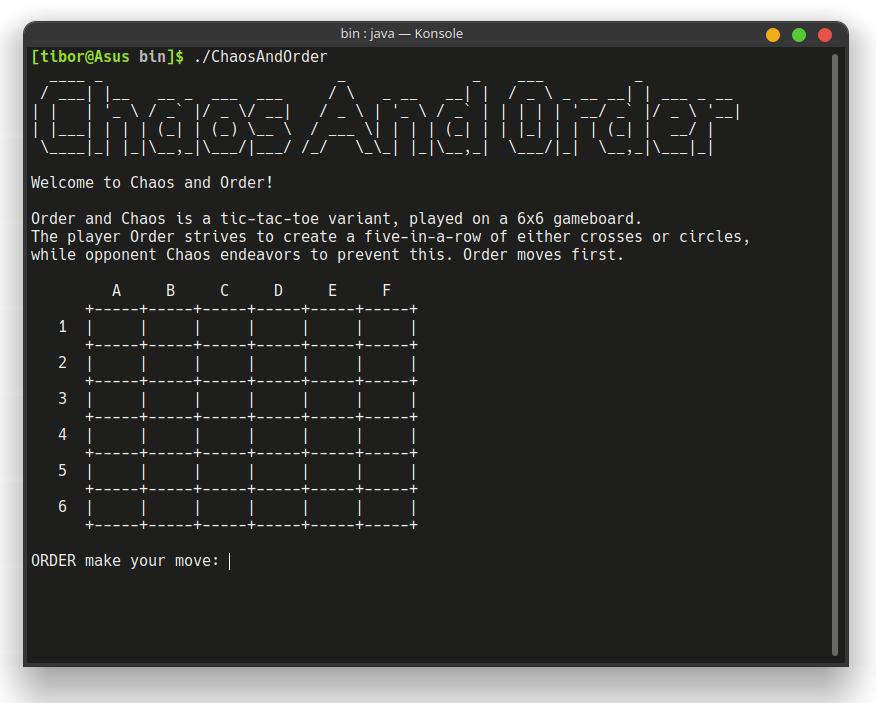
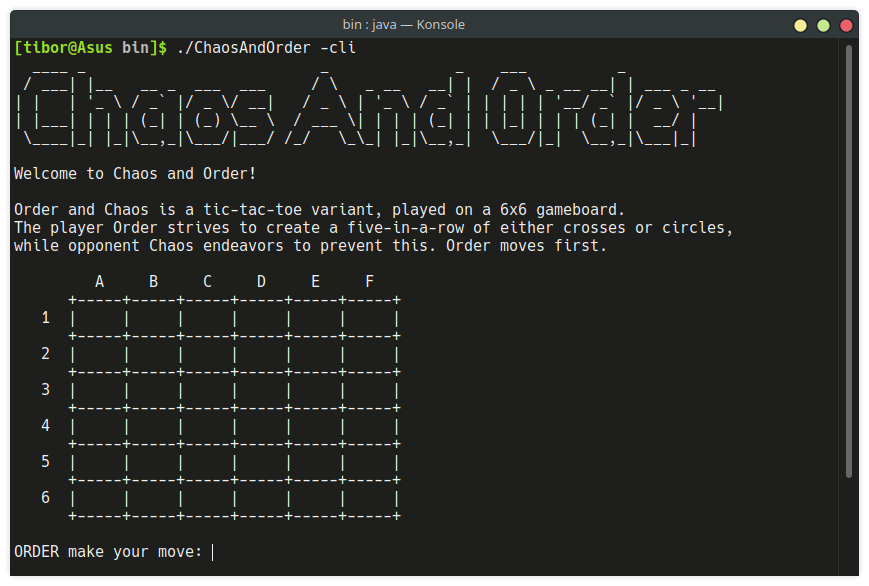
Changed startup parameters and added screenshots

diff --git a/src/main/java/sdm/project/Play.java b/src/main/java/sdm/project/Play.java
@@ -8,16 +8,16 @@ import java.util.Scanner;
 
 public class Play {
 
-    public static final String SYNTAX_INSTRUCTIONS = "Expected java -jar ChaosAndOrder.jar console|gui";
+    public static final String SYNTAX_INSTRUCTIONS = "Expected parameter -cli or -gui!";
 
     public static void main(String[] args) {
 
-        if (args.length != 1 || !args[0].matches("(console)|(gui)")) {
+        if (args.length != 1 || !args[0].matches("(-cli)|(-gui)")) {
             System.out.println(SYNTAX_INSTRUCTIONS);
             System.exit(0);
         }
 
-        if (args[0].equals("console")) {
+        if (args[0].equals("-cli")) {
             startConsoleGame();
         } else {
             Application.launch(GUIGame.class);
